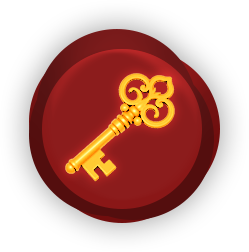
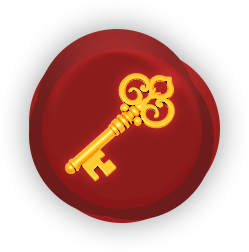
feat(carte): les lieux neufs en sceau d'encre, le rouge reste aux énigmes

Changed region(s): [[0.1124, 0.1111, 0.8996, 0.8889]]

diff --git a/apps/web-v2/src/features/carte/lib/nouveaux.ts b/apps/web-v2/src/features/carte/lib/nouveaux.ts
@@ -1,15 +1,15 @@
 /**
- * QUOI     — les nouveaux lieux sur la carte (Figma 793:2095, piste 5 « le sceau de cire », Uriel 24/10) :
- *            un lieu ajouté depuis moins de 14 jours et pas encore ouvert porte un sceau de cire rouge
- *            (sceaux.ts), entouré d'une lueur rouge et d'un fin anneau rouge qui s'élargit et s'efface
- *            en boucle lente ; de près seulement, une gélule rouge « NOUVEAU » sous la marque. Le lieu
+ * QUOI     — les nouveaux lieux sur la carte (Uriel, 24/10) : un lieu ajouté depuis moins de 14 jours
+ *            et pas encore ouvert porte un sceau d'encre plein (sceaux.ts), au premier plan, entouré
+ *            d'une lueur et d'un fin anneau d'encre qui s'élargit et s'efface en boucle lente ; de près
+ *            seulement, une gélule d'encre « NOUVEAU » sous la marque. Le lieu
  *            reste à sa place et à sa taille.
  * POURQUOI — l'anneau d'encre seul (08/10), puis l'aube dorée, ne se voyaient pas assez parmi les
  *            lieux (Uriel, 24/10). Une seule couleur pour tous les lieux neufs : les couleurs par nature
- *            faisaient « pêle-mêle » (08/10). Le mot de loin chargeait la carte : la cire suffit à
+ *            faisaient « pêle-mêle » (08/10). Le mot de loin chargeait la carte : le sceau suffit à
  *            signaler. Calques MapLibre sur la source des lieux : la propriété `nouveau` (migration 469).
- * ATTENTION — les énigmes portent aussi un sceau de cire « ? » ; elles seront revues avec leurs propres
- *            icônes (Uriel, 24/10). L'anneau est plus lent que leur onde, pour ne pas les confondre.
+ * ATTENTION — noir et non rouge : le rouge est aux énigmes (Uriel, 24/10). L'anneau est plus lent que
+ *            leur onde, pour ne pas les confondre.
  *            Les tailles suivent la courbe des marques (PALIERS, calques.ts), au premier niveau de
  *            l'expression de zoom ; l'anneau s'anime image par image (comme `fairePulser` des
  *            énigmes). Animations réduites : un anneau fixe.
@@ -31,7 +31,7 @@ const PERIODE = 3000 // ms : plus lent que les énigmes (2 200), pour qu'on ne l
 const RAYON = 13 // le rayon d'une marque à la taille 1 (sceau de 26 px)
 const ELAN = 4 // de combien l'anneau s'élargit au-delà de la marque (réduit de moitié, Uriel 08/10)
 const TRAIT = 1.2 // l'épaisseur de l'anneau
-const LUEUR = 22 // le rayon de la lueur rouge, à la taille 1
+const LUEUR = 22 // le rayon de la lueur, à la taille 1
 const DE_PRES = 9 // « NOUVEAU » dès l'échelle d'un département, comme les noms des revendications
 
 const estNouveau: FilterSpecification = ['==', ['get', 'nouveau'], true]
@@ -73,7 +73,7 @@ export function calqueAnneau(c: CouleursCarte, ecran: number): AddLayerObject {
     paint: {
       'circle-opacity': 0, // un contour seul
       'circle-radius': rayonAuZoom(rayon * ecran),
-      'circle-stroke-color': c.cire,
+      'circle-stroke-color': c.encre,
       'circle-stroke-width': TRAIT * ecran,
       'circle-stroke-opacity': opacite,
       // Pas de fondu : on change ces valeurs à chaque image (sinon les fondus se chevauchent).
@@ -83,7 +83,7 @@ export function calqueAnneau(c: CouleursCarte, ecran: number): AddLayerObject {
   }
 }
 
-// La lueur rouge : un disque de cire flou, sous toutes les marques.
+// La lueur : un disque d'encre flou, sous toutes les marques.
 export function calqueLueur(c: CouleursCarte, ecran: number): AddLayerObject {
   return {
     id: CALQUE_LUEUR_NOUVEAUX,
@@ -91,7 +91,7 @@ export function calqueLueur(c: CouleursCarte, ecran: number): AddLayerObject {
     source: SOURCE,
     filter: estNouveau,
     paint: {
-      'circle-color': c.cire,
+      'circle-color': c.encre,
       'circle-blur': 1, // flou du centre jusqu'au bord : une lueur, pas un disque
       'circle-opacity': 0.6,
       'circle-radius': rayonAuZoom(LUEUR * ecran),
@@ -100,7 +100,7 @@ export function calqueLueur(c: CouleursCarte, ecran: number): AddLayerObject {
 }
 
 // La gélule « NOUVEAU », dessinée d'un bloc avec son mot (sceaux.ts), de près seulement (Uriel, 24/10) :
-// de loin, la cire suffit.
+// de loin, le sceau suffit.
 export function calqueGelule(): AddLayerObject {
   return {
     id: CALQUE_GELULE_NOUVEAUX,

diff --git a/apps/web-v2/src/features/carte/lib/sceaux.ts b/apps/web-v2/src/features/carte/lib/sceaux.ts
@@ -2,7 +2,7 @@
  * QUOI     — les marques des lieux, dessinées une fois dans un canevas puis confiées à MapLibre :
  *            le « ? » (lieu inconnu) et l'icône du type à l'encre (connu), chacun sur une lueur
  *            parchemin légère ; le sceau du type (visité, en couleur par défaut depuis le 24/10) ; le
- *            sceau de cire (lieu neuf) ; l'étoile (point d'intérêt), le fond des pilules et la gélule
+ *            sceau d'encre (lieu neuf) ; l'étoile (point d'intérêt), le fond des pilules et la gélule
  *            « NOUVEAU ».
  * POURQUOI — des images de carte, et non des éléments HTML : des milliers de lieux restent
  *            fluides sur un téléphone (spec Carte §3). Ce qui reste à faire est un signe d'encre nu,
@@ -27,7 +27,7 @@ const RATIO = 2
 export function nomImage(l: LieuCarte, couleurTypes: boolean): string {
   if (l.nature === 'curiosite') return 'curiosite'
   const icone = l.icone ?? 'defaut'
-  if (l.nouveau) return l.etat === 'inconnu' ? 'cire-inconnu' : `cire-${icone}`
+  if (l.nouveau) return l.etat === 'inconnu' ? 'neuf-inconnu' : `neuf-${icone}`
   if (l.etat === 'inconnu') return 'bille'
   if (l.etat === 'connu') return `connu-${icone}`
   return couleurTypes && l.couleur ? `visite-${icone}-${l.couleur}` : `visite-${icone}`
@@ -136,12 +136,12 @@ function bille(image: HTMLImageElement, c: CouleursCarte) {
   return ctx.getImageData(0, 0, SCEAU, SCEAU)
 }
 
-// Un lieu neuf : un sceau de cire, l'icône (ou le « ? ») en clair (nouveaux.ts pose sa lueur et son
-// anneau).
-function sceauDeCire(icone: HTMLImageElement, c: CouleursCarte) {
+// Un lieu neuf : un sceau d'encre plein, l'icône (ou le « ? ») en clair (nouveaux.ts pose sa lueur et
+// son anneau). Noir et non rouge : le rouge est aux énigmes (Uriel, 24/10).
+function sceauNeuf(icone: HTMLImageElement, c: CouleursCarte) {
   const ctx = toile(SCEAU)
   disque(ctx, SCEAU / 2 - 2)
-  ctx.fillStyle = c.cire
+  ctx.fillStyle = c.encre
   ctx.fill()
   poserIcone(ctx, icone, c.halo)
   return ctx.getImageData(0, 0, SCEAU, SCEAU)
@@ -223,7 +223,7 @@ function pilule(map: Carte, nom: string, fond: string, bord: string) {
 // La gélule « NOUVEAU » (nouveaux.ts), mot compris, en une seule image : la carte l'agrandit d'un
 // bloc avec le zoom. Une gélule étirée autour d'un texte de carte ne suit pas quand ce texte change
 // de taille avec le zoom : le mot glissait dedans (22/10). Mot en Cabin 9 px, marges de 3 et 6 px,
-// en clair sur la cire (Uriel, 24/10).
+// en clair sur l'encre (Uriel, 24/10).
 function geluleNouveau(c: CouleursCarte): ImageData {
   const [mot, haut, cote] = [9 * RATIO, 3 * RATIO, 6 * RATIO]
   const police = `700 ${String(mot)}px Cabin`
@@ -236,7 +236,7 @@ function geluleNouveau(c: CouleursCarte): ImageData {
   if (!ctx) throw new Error('canevas indisponible')
   ctx.beginPath()
   ctx.roundRect(0, 0, largeur, hauteur, hauteur / 2)
-  ctx.fillStyle = c.cire
+  ctx.fillStyle = c.encre
   ctx.fill()
   ctx.font = police
   ctx.letterSpacing = mesure.letterSpacing
@@ -288,7 +288,7 @@ export async function ajouterMarques(
   await Promise.all(
     [...aDessiner].map(async ([nom, l]) => {
       const dessiner = (icone: HTMLImageElement) => {
-        if (l.nouveau) return sceauDeCire(l.etat === 'inconnu' ? inconnu : icone, c)
+        if (l.nouveau) return sceauNeuf(l.etat === 'inconnu' ? inconnu : icone, c)
         if (l.etat === 'connu') return sceauConnu(icone, c)
         if (couleurTypes && l.couleur) return sceauCouleur(icone, l.couleur)
         return sceauVisite(icone, c)

diff --git a/apps/web-v2/src/features/carte/lib/nouveaux.test.ts b/apps/web-v2/src/features/carte/lib/nouveaux.test.ts
@@ -1,5 +1,5 @@
 /**
- * QUOI     — les nouveaux lieux : une lueur rouge, un fin anneau de cire qui part de la marque et
+ * QUOI     — les nouveaux lieux : une lueur d'encre, un fin anneau d'encre qui part de la marque et
  *            s'efface, une taille qui suit le zoom, une gélule « NOUVEAU » de près seulement.
  */
 import { expect, test } from 'vitest'
@@ -13,7 +13,7 @@ import {
   rayonAuZoom,
 } from './nouveaux'
 
-const c = { encre: '#494841', halo: '#fffaf2', cire: '#a94842' } as CouleursCarte
+const c = { encre: '#494841', halo: '#fffaf2' } as CouleursCarte
 
 test('l’anneau naît transparent, se dessine en s’élargissant, puis s’efface : jamais d’un coup', () => {
   expect(anneauNouveau(0)).toEqual({ rayon: 14, opacite: 0 })
@@ -28,19 +28,19 @@ test('la taille suit le zoom, avec la courbe au premier niveau (exigence de MapL
   expect(rayonAuZoom(10)).toEqual(['interpolate', ['linear'], ['zoom'], 4, 5, 8, 8, 12, 11.5])
 })
 
-test('un contour de cire seul, seulement pour les lieux nouveaux', () => {
+test('un contour d’encre seul, seulement pour les lieux nouveaux', () => {
   expect(calqueAnneau(c, 1)).toMatchObject({
     type: 'circle',
     filter: ['==', ['get', 'nouveau'], true],
-    paint: { 'circle-opacity': 0, 'circle-stroke-color': '#a94842' },
+    paint: { 'circle-opacity': 0, 'circle-stroke-color': '#494841' },
   })
 })
 
-test('une lueur de cire floue sous la marque', () => {
+test('une lueur d’encre floue sous la marque', () => {
   expect(calqueLueur(c, 1)).toMatchObject({
     type: 'circle',
     filter: ['==', ['get', 'nouveau'], true],
-    paint: { 'circle-color': '#a94842', 'circle-blur': 1, 'circle-radius': rayonAuZoom(22) },
+    paint: { 'circle-color': '#494841', 'circle-blur': 1, 'circle-radius': rayonAuZoom(22) },
   })
 })
 

diff --git a/apps/web-v2/src/features/carte/lib/sceaux.test.ts b/apps/web-v2/src/features/carte/lib/sceaux.test.ts
@@ -27,9 +27,9 @@ test('chaque lieu reçoit la marque de son état', () => {
   expect(nomImage({ ...lieu, nature: 'curiosite' }, false)).toBe('curiosite')
 })
 
-test('un lieu neuf porte le sceau de cire, son icône ou son « ? »', () => {
-  expect(nomImage({ ...lieu, etat: 'connu', nouveau: true }, true)).toBe('cire-x.svg')
-  expect(nomImage({ ...lieu, etat: 'inconnu', nouveau: true }, true)).toBe('cire-inconnu')
+test('un lieu neuf porte le sceau d’encre, son icône ou son « ? »', () => {
+  expect(nomImage({ ...lieu, etat: 'connu', nouveau: true }, true)).toBe('neuf-x.svg')
+  expect(nomImage({ ...lieu, etat: 'inconnu', nouveau: true }, true)).toBe('neuf-inconnu')
 })
 
 test('un inconnu neuf a son image à dessiner ; un inconnu ordinaire partage la bille', () => {
@@ -37,7 +37,7 @@ test('un inconnu neuf a son image à dessiner ; un inconnu ordinaire partage la 
     { ...lieu, id: 'b', etat: 'inconnu' as const },
     { ...lieu, id: 'c', etat: 'inconnu' as const, nouveau: true },
   ]
-  expect([...marquesADessiner(lieux, false, () => false).keys()]).toEqual(['cire-inconnu'])
+  expect([...marquesADessiner(lieux, false, () => false).keys()]).toEqual(['neuf-inconnu'])
 })
 
 test('le mélange de deux couleurs suit la part demandée', () => {
